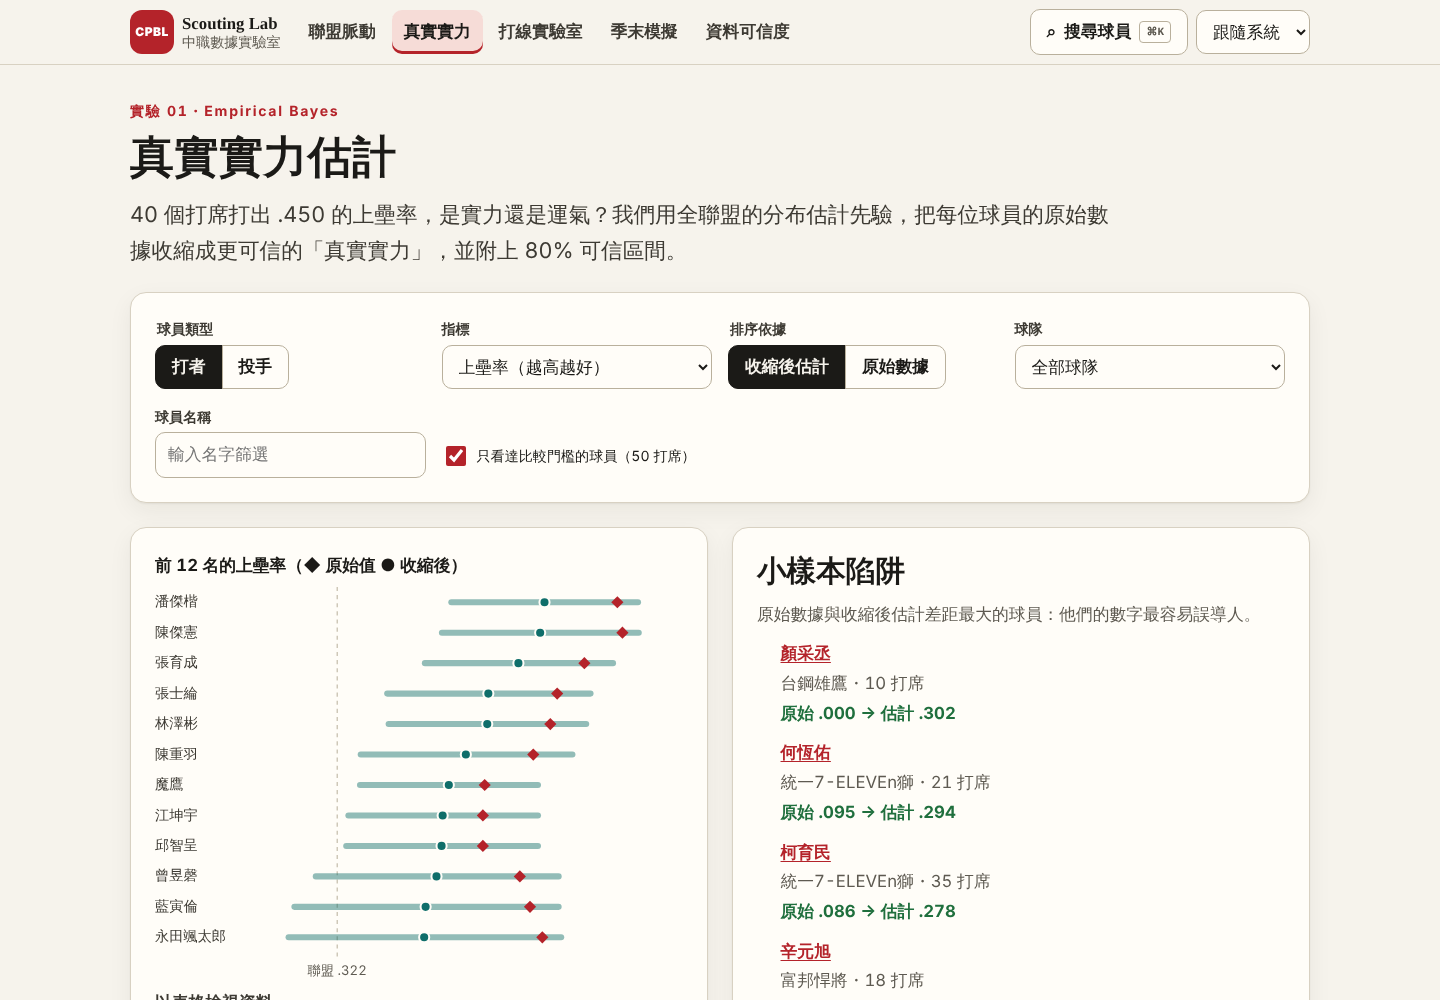
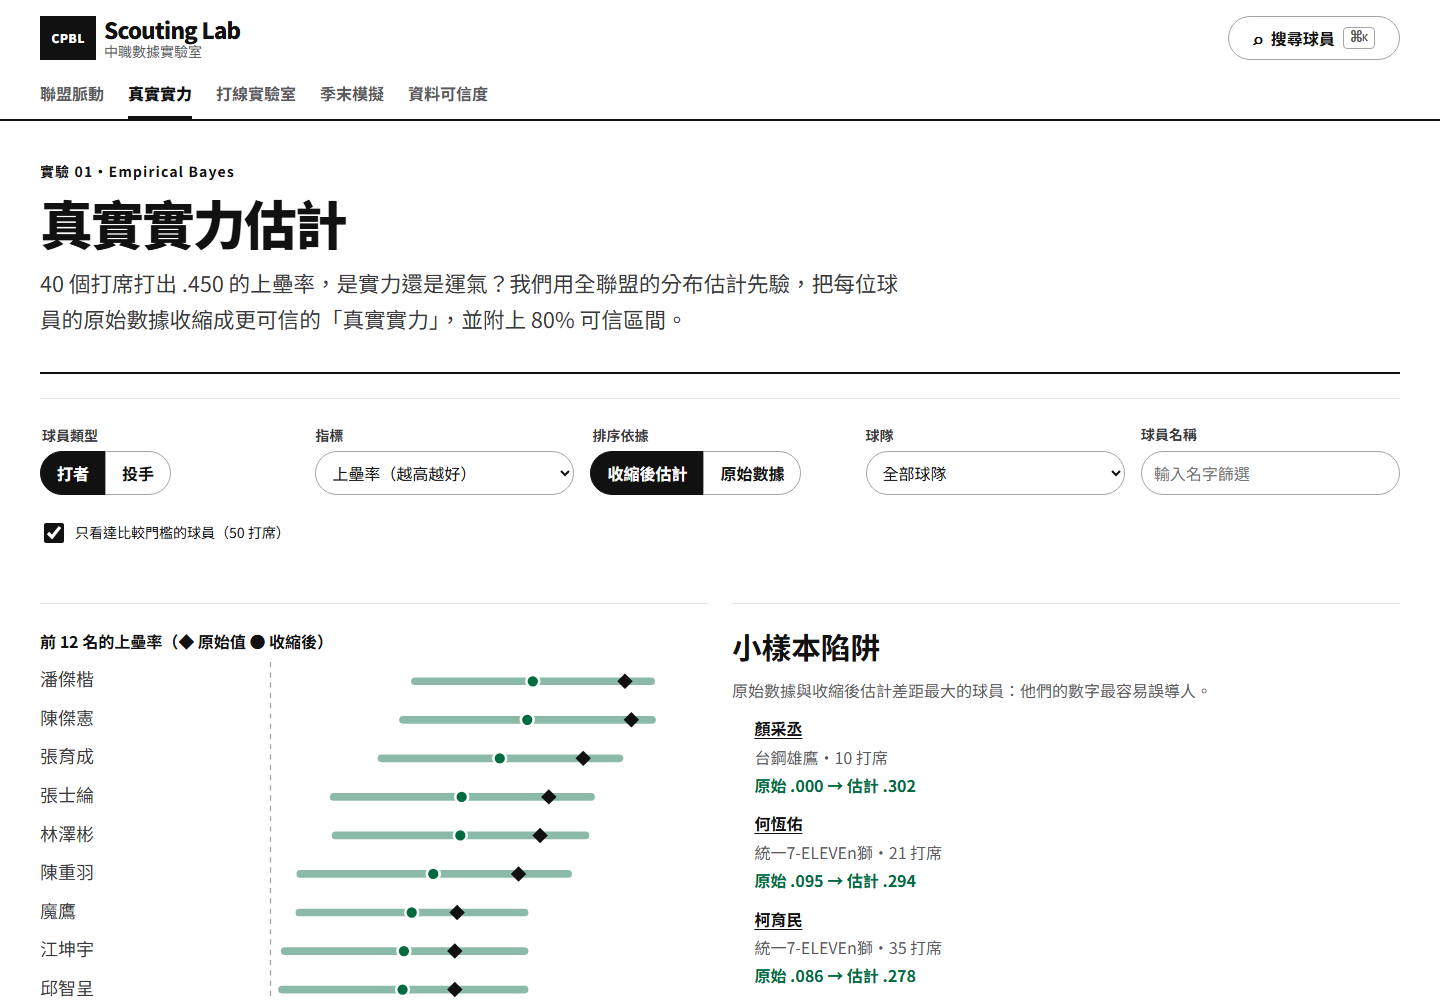
docs: refresh README screenshots and add a page gallery
Recapture every screenshot from the current design with the live site's
data, add a four-page gallery and link DESIGN.md.

diff --git a/README.md b/README.md
@@ -22,9 +22,13 @@
 
 ## 技術與畫面
 
-Python 資料處理與分析、React、TypeScript、Vite、Web Worker；GitHub Pages 提供靜態網站。
+Python 資料處理與分析、React、TypeScript、Vite、Web Worker；GitHub Pages 提供靜態網站。介面採黑白運動報刊風格，設計原則見 [DESIGN.md](DESIGN.md)。
 
-![打線實驗室](docs/screenshots/lineup-lab.png)
+| 打線實驗室 | 真實實力估計 |
+| --- | --- |
+| ![打線實驗室](docs/screenshots/lineup-lab.png) | ![真實實力估計](docs/screenshots/talent.png) |
+| **球員檔案** | **季末戰績模擬** |
+| ![球員檔案](docs/screenshots/player-profile.png) | ![季末戰績模擬](docs/screenshots/season.png) |
 
 ## 本機執行與驗證
 
